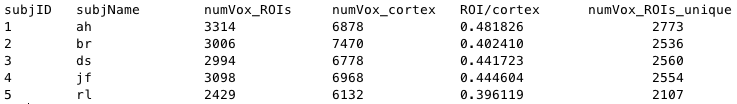
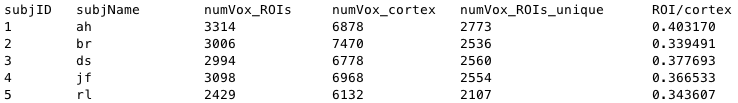
fix bug: ratio = unique vox / total

diff --git a/src/verifyROIs.m b/src/verifyROIs.m
@@ -19,24 +19,26 @@ options.nlambda = 100;
 nSubjs = length(SUBJ_NAMES);
 
 %%
-fprintf('subjID\t subjName\t numVox_ROIs\t numVox_cortex\t ROI/cortex \t numVox_ROIs_unique\n')
+fprintf('subjID\t subjName\t numVox_ROIs\t numVox_cortex\t numVox_ROIs_unique \t ROI/cortex \n')
 for s = 1 : nSubjs
     load(fullfile(DIR.DATA, SUBJ_NAMES{s}));
     % record the number of voxels in cortex and predefined ROIs 
     numVox_cortex = length(alldat.grayinds); 
-    numVox_allROIs = 0; 
     idx_ROIs = [];  
     for r = 1 : length(alldat.ROIs) 
         idx_ROIs = horzcat(idx_ROIs, alldat.ROIs(r).ROIind);
-        numVox_allROIs = numVox_allROIs + length(alldat.ROIs(r).ROIind);
     end
-    ratio = numVox_allROIs/numVox_cortex;
-    nonVox_ROIs_unique = length(unique(idx_ROIs));
-    fprintf('%d \t %s \t\t %d \t\t %d \t\t %f \t\t %d \n', ...
-        s, SUBJ_NAMES{s}, numVox_allROIs, numVox_cortex, ratio, nonVox_ROIs_unique);
+    % compute the number of voxels in the ROIs
+    numVox_allROIs = length(idx_ROIs);
+    numVox_ROIs_unique = length(unique(idx_ROIs));
+    ratio = numVox_ROIs_unique/numVox_cortex;
+    
+    fprintf('%d \t %s \t\t %d \t\t %d \t\t %d \t\t\t %f \n', ...
+        s, SUBJ_NAMES{s}, numVox_allROIs, numVox_cortex, numVox_ROIs_unique, ratio);
 end
 
 %% conclusion
-% 1. 40% of the voxels in the cortex are contained in some ROI 
+% 1. About 35% of the voxels in the cortex are contained in some ROI 
 % 2. ROIs are overlapping (about 13%)
-% 3. on average, we have 7000 voxels in the cortex
+% 3. on average, we have 7000 voxels in the cortex, the column:row ratio is
+% comparable to the FPO data
